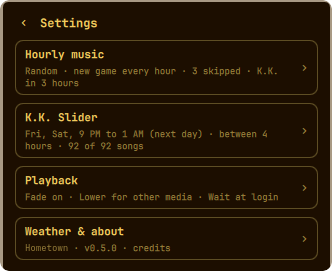
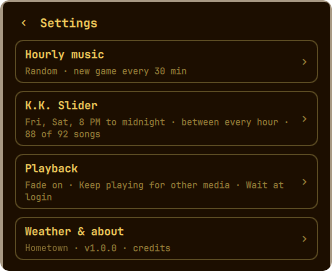
1.0.0: first public release
Write the README for first-time users (no upgrade notes), show the
current version in the About page and Settings menu screenshots, and
have the plugin re-read its manifest so the version shown updates
without a shell restart.

diff --git a/Service.qml b/Service.qml
@@ -241,6 +241,9 @@ Item {
       return decodeURIComponent(url.indexOf("file://") === 0 ? url.substring(7) : url)
     }
     printErrors: false
+    // Watched, so an update shows its new version without a restart.
+    watchChanges: true
+    onFileChanged: reload()
     onLoaded: {
       try { root.version = JSON.parse(text()).version || "" } catch (e) {}
     }

diff --git a/README.md b/README.md
@@ -180,9 +180,6 @@ greyed out and simply shows your **Sunny** ticks, which is what decides it.
 Untick GameCube's sunny 11 AM and it won't play at 11 AM on rainy days either.
 (GameCube does have snow music, so its Snow column works normally.)
 
-If you're upgrading from an earlier version, your old single grid becomes the
-starting grid for all three weathers, so nothing changes until you edit one.
-
 #### Random picks
 
 How often Random chooses. The line under the buttons explains the selected option.
@@ -218,7 +215,7 @@ K.K. takes over on a schedule, like his Saturday night shows in the games.
 - **Concerts** switches the schedule on or off. Its description spells out the current schedule, for example *Fri, Sat, 9 PM to 1 AM (next day)*.
 - **Days:** tap `Su` through `Sa` to choose which days have a concert.
 - **From / to:** the start and end hour. An end at or before the start runs **past midnight** into the next morning, and the end dropdown labels those hours *(next day)*. So a Friday concert from 9 PM to 1 AM keeps going until 1 AM on Saturday.
-- Out of the box it's **Saturdays, 8 PM to midnight**, like in the games. If you're upgrading, your old "Saturday night concerts" switch carries over.
+- Out of the box it's **Saturdays, 8 PM to midnight**, like in the games.
 
 **K.K. all the time** plays K.K. instead of the hourly music around the clock.
 
@@ -267,8 +264,7 @@ How it works:
 - If nothing is ticked at all, K.K. plays from every song rather than going silent.
 
 Out of the box every song's **live** version is ticked and its aircheck isn't,
-matching the old default. If you're upgrading, your old Live / Aircheck / Both
-choice and any songs you'd unticked carry over.
+like K.K.'s shows in the games.
 
 Wherever K.K. plays, songs play through once and the next starts automatically.
 They're drawn from your ticked songs and won't repeat until 20 others have
@@ -445,8 +441,7 @@ For example, to keep New Leaf out of sunny 11 AMs but keep it on rainy ones
 }
 ```
 
-Song names for `kk.off` are listed in `Data.js`. Older configs (with
-`kk.saturday`, `kk.version`, and `kk.skip`) are converted automatically.
+Song names for `kk.off` are listed in `Data.js`.
 
 ## Updating and uninstalling
 
@@ -511,7 +506,7 @@ There's no account, no analytics, and nothing is sent anywhere else.
 ## Development
 
 The plugin is plain QML plus two JavaScript libraries: `Model.js` (all the
-rules: picking games, schedules, migration) and `Data.js` (loop points and the
+rules: picking games, schedules, settings) and `Data.js` (loop points and the
 K.K. song list). The rules are covered by tests that run in plain Node, with no
 Quickshell needed:
 
